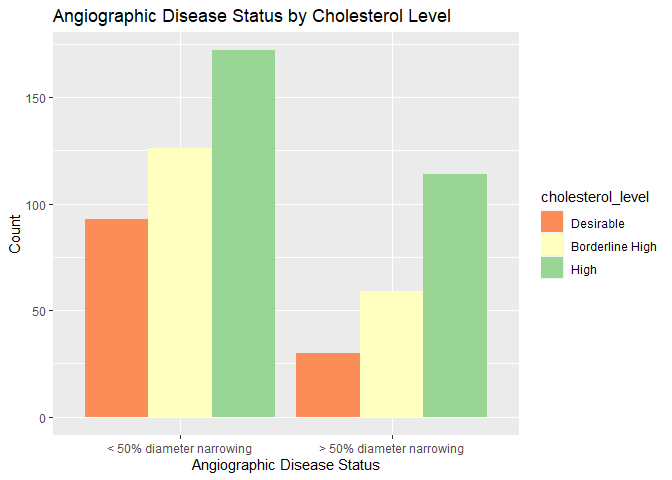
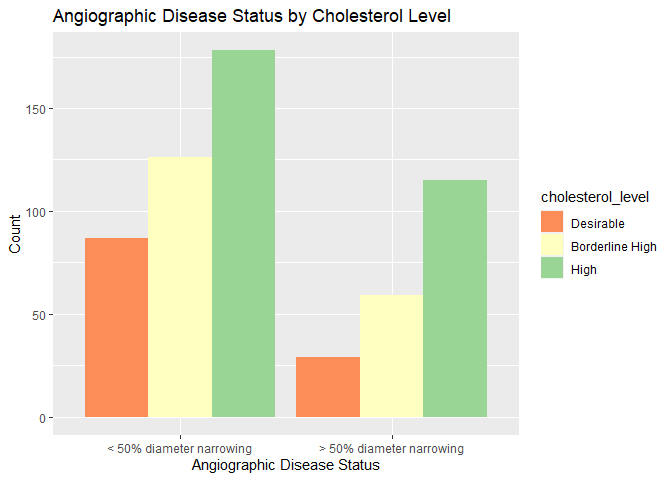
updated comments

diff --git a/README.md b/README.md
@@ -3,8 +3,6 @@ Final\_Project
 Ram Ayyala
 10/22/2021
 
-# [Github Website Report](https://ramayyala.github.io/PM566-Labs/)
-
 # Introduction
 
 Heart Disease is a major problem people across the world, whether it be
@@ -107,21 +105,16 @@ data[, .(
 
 | Cholesterol Level | Minimum Cholesterol Level (mg/dl) | Maximum Cholesterol Level (mg/dl) | Number of Observations |
 |:------------------|----------------------------------:|----------------------------------:|-----------------------:|
-| Desirable         |                           49.0757 |                               199 |                    123 |
-| Borderline High   |                          200.0000 |                               239 |                    185 |
-| High              |                          240.0000 |                               603 |                    286 |
+| Desirable         |                          5.416904 |                               199 |                    116 |
+| Borderline High   |                        200.000000 |                               239 |                    185 |
+| High              |                        240.000000 |                               603 |                    293 |
 
 Cholesterol Level Categories
 
 # Preliminary Results
 
-<br /> The figure above contains a scatter plot that details the
-relationship between Cholesterol Levels and Resting blood pressure for
-each location in the data set, with the x-axis being the Cholesterol
-Levels (mg/dl) and the y-axis being the Resting Blood pressure values
-(mmHg). Within each scatter plot lies a regression line. From the figure
-above, it is evident that across all of the locations, Cholesterol seems
-to have a positive association with Resting Blood Pressure.
+<br />
+<!--The figure above contains a scatter plot that details the relationship between Cholesterol Levels and Resting blood pressure for each location in the data set, with the x-axis being the Cholesterol Levels (mg/dl) and the y-axis being the Resting Blood pressure values (mmHg). Within each scatter plot lies a regression line. From the figure above, it is evident that across all of the locations, Cholesterol seems to have a positive association with Resting Blood Pressure.-->
 
 ``` r
 data[!is.na(sick) & !is.na(cholesterol_level)] %>%

diff --git a/final_project/final_project.md b/final_project/final_project.md
@@ -3,8 +3,6 @@ Final\_Project
 Ram Ayyala
 10/22/2021
 
-# [Github Website Report](https://ramayyala.github.io/PM566-Labs/)
-
 # Introduction
 
 Heart Disease is a major problem people across the world, whether it be
@@ -107,21 +105,16 @@ data[, .(
 
 | Cholesterol Level | Minimum Cholesterol Level (mg/dl) | Maximum Cholesterol Level (mg/dl) | Number of Observations |
 |:------------------|----------------------------------:|----------------------------------:|-----------------------:|
-| Desirable         |                           49.0757 |                               199 |                    123 |
-| Borderline High   |                          200.0000 |                               239 |                    185 |
-| High              |                          240.0000 |                               603 |                    286 |
+| Desirable         |                          5.416904 |                               199 |                    116 |
+| Borderline High   |                        200.000000 |                               239 |                    185 |
+| High              |                        240.000000 |                               603 |                    293 |
 
 Cholesterol Level Categories
 
 # Preliminary Results
 
-<br /> The figure above contains a scatter plot that details the
-relationship between Cholesterol Levels and Resting blood pressure for
-each location in the data set, with the x-axis being the Cholesterol
-Levels (mg/dl) and the y-axis being the Resting Blood pressure values
-(mmHg). Within each scatter plot lies a regression line. From the figure
-above, it is evident that across all of the locations, Cholesterol seems
-to have a positive association with Resting Blood Pressure.
+<br />
+<!--The figure above contains a scatter plot that details the relationship between Cholesterol Levels and Resting blood pressure for each location in the data set, with the x-axis being the Cholesterol Levels (mg/dl) and the y-axis being the Resting Blood pressure values (mmHg). Within each scatter plot lies a regression line. From the figure above, it is evident that across all of the locations, Cholesterol seems to have a positive association with Resting Blood Pressure.-->
 
 ``` r
 data[!is.na(sick) & !is.na(cholesterol_level)] %>%

diff --git a/docs/index.md b/docs/index.md
@@ -105,21 +105,16 @@ data[, .(
 
 | Cholesterol Level | Minimum Cholesterol Level (mg/dl) | Maximum Cholesterol Level (mg/dl) | Number of Observations |
 |:------------------|----------------------------------:|----------------------------------:|-----------------------:|
-| Desirable         |                           49.0757 |                               199 |                    123 |
-| Borderline High   |                          200.0000 |                               239 |                    185 |
-| High              |                          240.0000 |                               603 |                    286 |
+| Desirable         |                          5.416904 |                               199 |                    116 |
+| Borderline High   |                        200.000000 |                               239 |                    185 |
+| High              |                        240.000000 |                               603 |                    293 |
 
 Cholesterol Level Categories
 
 # Preliminary Results
 
-<br /> The figure above contains a scatter plot that details the
-relationship between Cholesterol Levels and Resting blood pressure for
-each location in the data set, with the x-axis being the Cholesterol
-Levels (mg/dl) and the y-axis being the Resting Blood pressure values
-(mmHg). Within each scatter plot lies a regression line. From the figure
-above, it is evident that across all of the locations, Cholesterol seems
-to have a positive association with Resting Blood Pressure.
+<br />
+<!--The figure above contains a scatter plot that details the relationship between Cholesterol Levels and Resting blood pressure for each location in the data set, with the x-axis being the Cholesterol Levels (mg/dl) and the y-axis being the Resting Blood pressure values (mmHg). Within each scatter plot lies a regression line. From the figure above, it is evident that across all of the locations, Cholesterol seems to have a positive association with Resting Blood Pressure.-->
 
 ``` r
 data[!is.na(sick) & !is.na(cholesterol_level)] %>%
